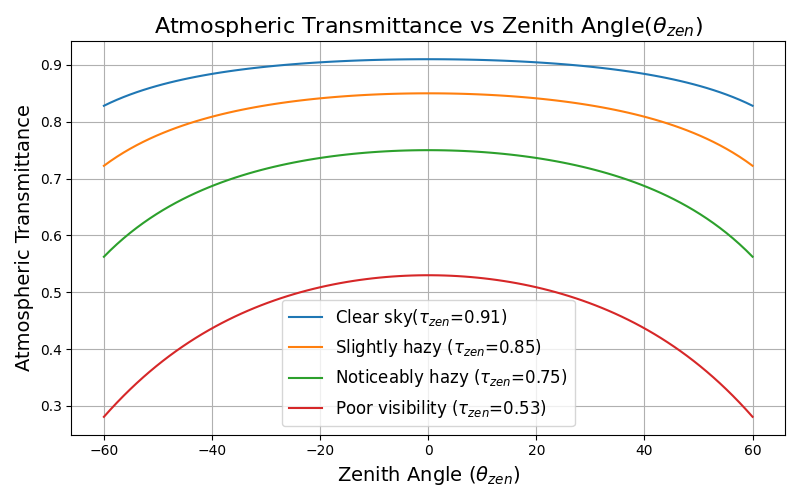
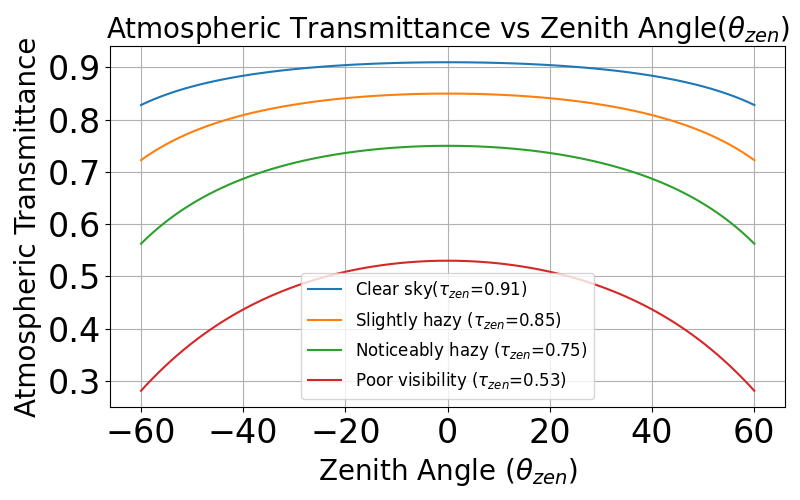
modify the parameter display

diff --git a/BB84/SimulationResult/Circle_beam/Atmospheric/transmissivity_t_zenith.py b/BB84/SimulationResult/Circle_beam/Atmospheric/transmissivity_t_zenith.py
@@ -26,9 +26,11 @@ def main():
         transmissions = [transmissivity_etat(tau_zen, angle) for angle in angles]
         plt.plot(angles, transmissions, label=fr"{weather}")
 
-    plt.xlabel(fr"Zenith Angle ($\theta_{{zen}}$)", fontsize=14)
-    plt.ylabel("Atmospheric Transmittance", fontsize=14)
-    plt.title(fr"Atmospheric Transmittance vs Zenith Angle($\theta_{{zen}}$)", fontsize=16)
+    plt.xlabel(fr"Zenith Angle ($\theta_{{zen}}$)", fontsize=20)
+    plt.ylabel("Atmospheric Transmittance", fontsize=20)
+    plt.title(fr"Atmospheric Transmittance vs Zenith Angle($\theta_{{zen}}$)", fontsize=20)
+    plt.xticks(fontsize=24)
+    plt.yticks(fontsize=24)
     plt.grid(True)
     plt.legend(fontsize=12)
     plt.tight_layout()
